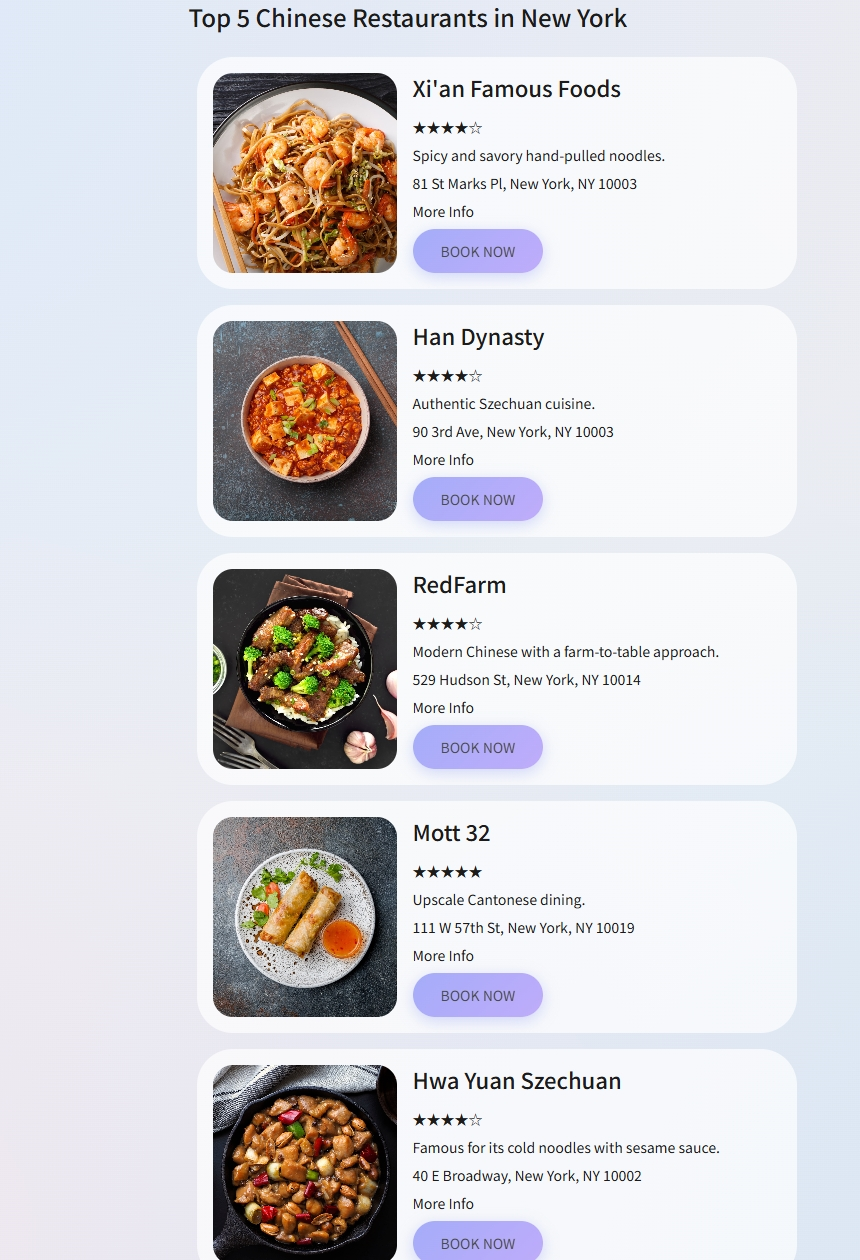
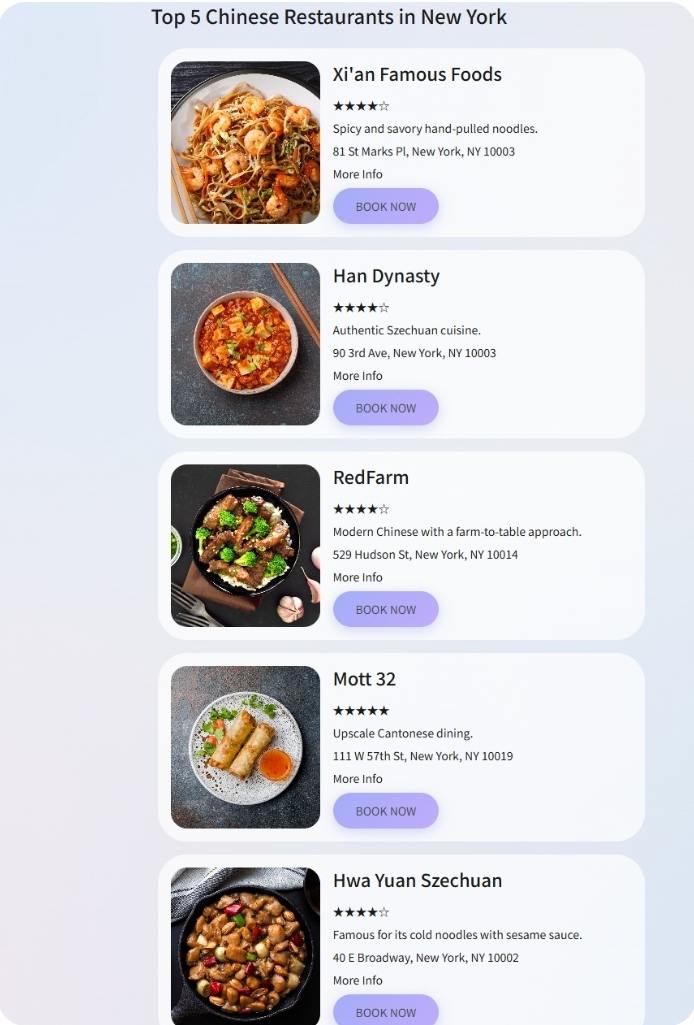
docs: change size

diff --git a/README.zh-CN.md b/README.zh-CN.md
@@ -7,7 +7,7 @@
 > 让 AI Agent 通过结构化 JSON 表达 UI 意图，在任意 Vue 3 应用中渲染出丰富的、可交互的用户界面——无需 Agent 了解任何 HTML/CSS。
 
 **[📖 文档](https://shawnwang15.github.io/a2ui-vue/)** · **[🌐 English](README.md)**
-
+![项目截图](packages/vue-renderer/images/gallery.jpeg)![项目截图](packages/vue-renderer/images/restaurants.jpeg)
 ## 一页速览
 
 - 产品定位：A2UI（Agent-to-UI）协议的 Vue 3 渲染器
